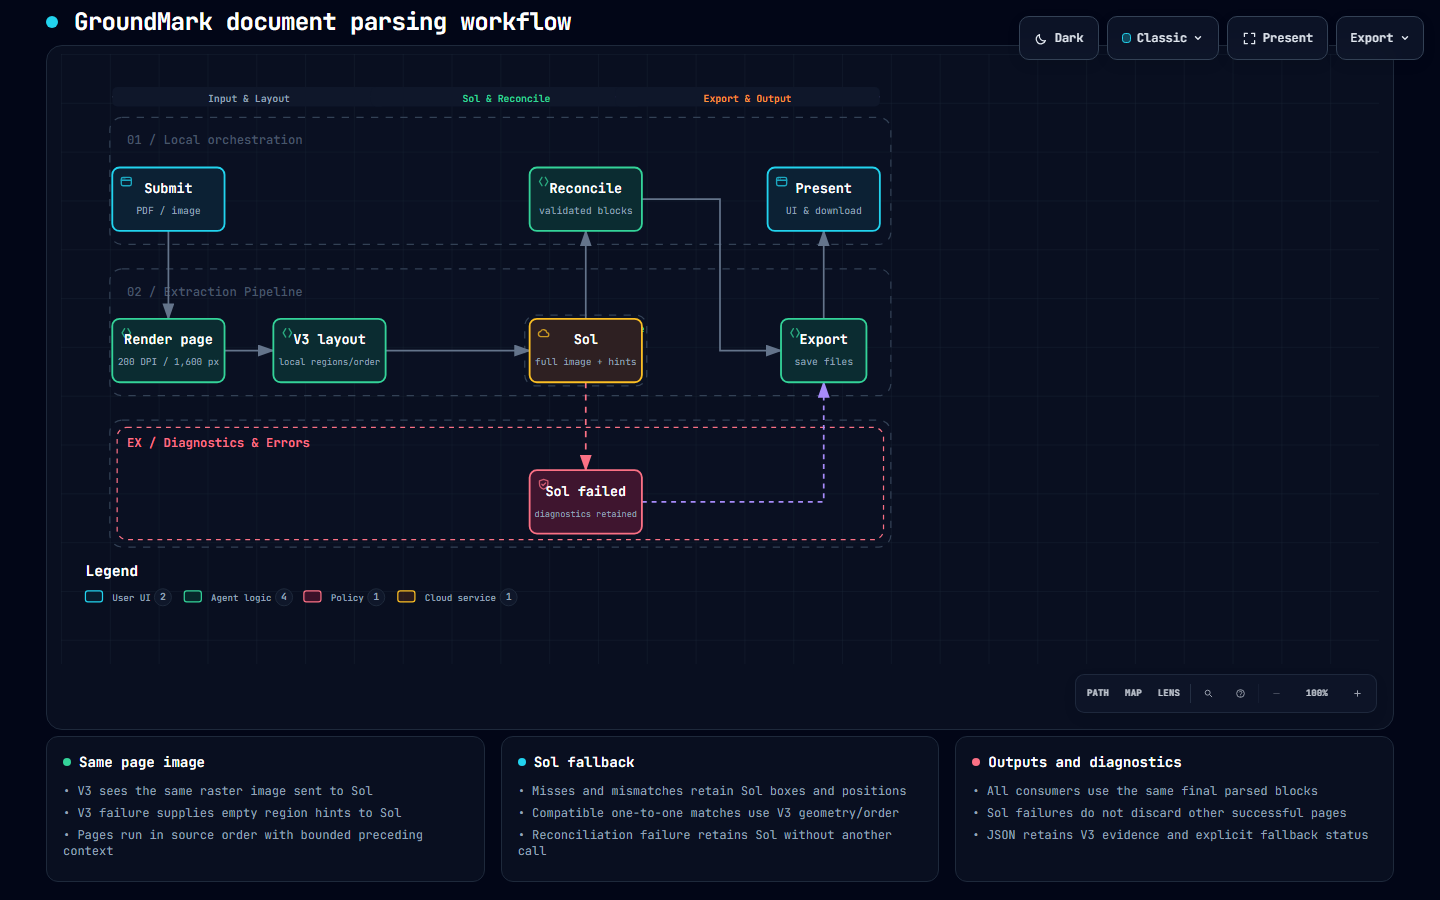
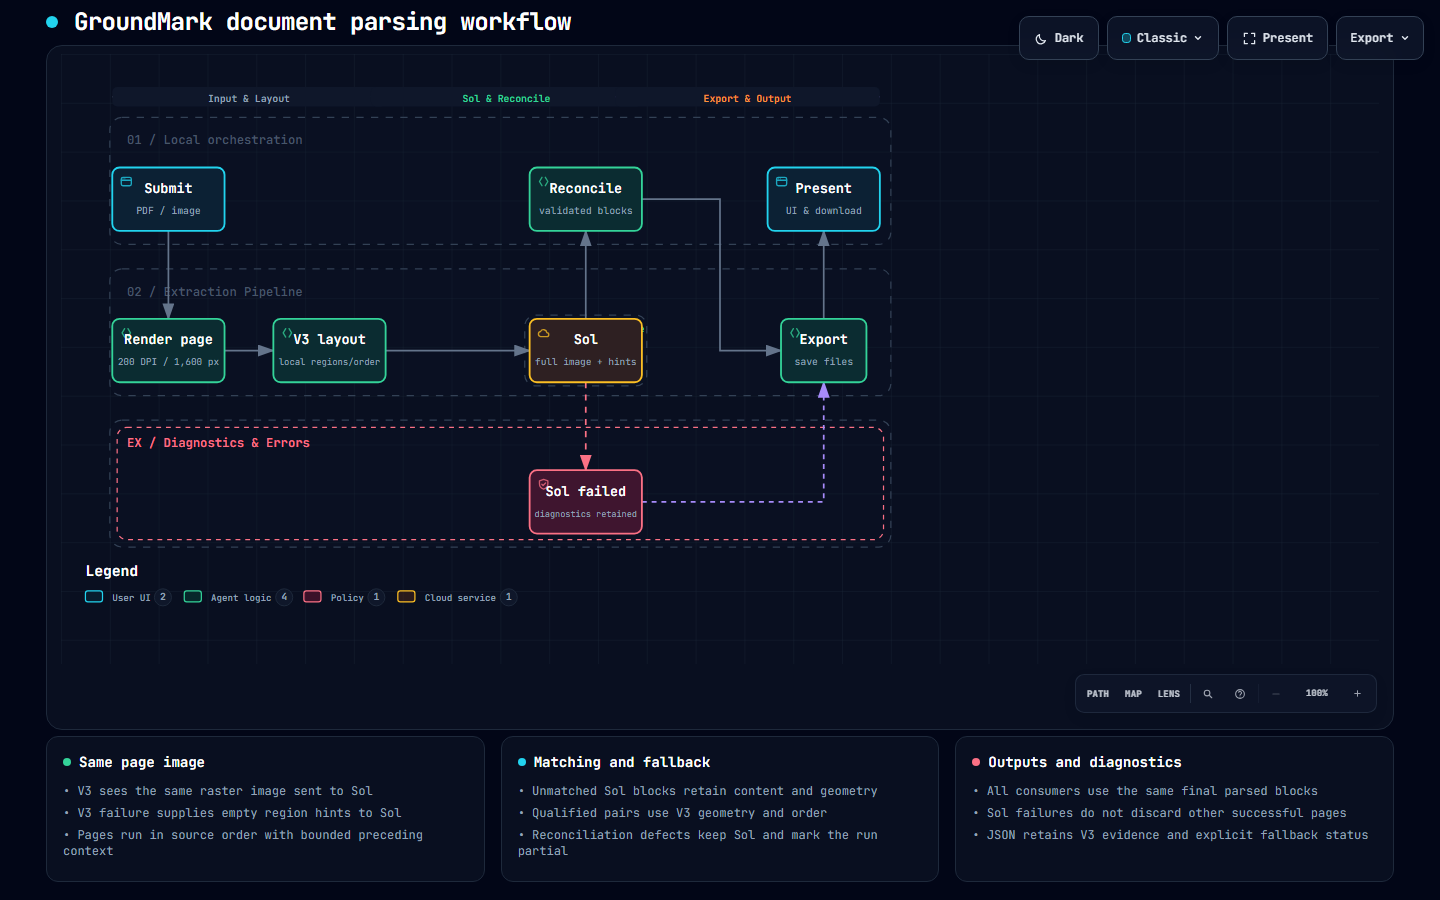
docs: refresh architecture diagrams and visual checks

Changed region(s): [[0.375, 0.84, 0.625, 0.9333]]

diff --git a/docs/diagrams/groundmark-architecture.html b/docs/diagrams/groundmark-architecture.html
@@ -5042,7 +5042,7 @@
         <path data-edge-from="parser_core" data-edge-to="sol_model" data-edge-label="image + hints" data-edge-key="4" data-composition-points="840,230;840,130" d="M 840 230 L 840 130" class="a-default" stroke-width="1.5" marker-end="url(#arrowhead)"/>
         <path data-edge-from="parser_core" data-edge-to="layout_contract" data-edge-key="5" data-composition-points="900,260;960,260" d="M 900 260 L 960 260" class="a-default" stroke-width="1.5" marker-end="url(#arrowhead)"/>
         <path data-edge-from="layout_contract" data-edge-to="renderer" data-edge-label="Structure" data-edge-key="6" data-composition-points="1020,230;1020,130" d="M 1020 230 L 1020 130" class="a-default" stroke-width="1.5" marker-end="url(#arrowhead)"/>
-        <path data-edge-from="layout_contract" data-edge-to="annotator" data-edge-label="Boxes" data-edge-key="7" data-composition-points="1020,290;1020,390" d="M 1020 290 L 1020 390" class="a-default" stroke-width="1.5" marker-end="url(#arrowhead)"/>
+        <path data-edge-from="layout_contract" data-edge-to="annotator" data-edge-label="Geometry" data-edge-key="7" data-composition-points="1020,290;1020,390" d="M 1020 290 L 1020 390" class="a-default" stroke-width="1.5" marker-end="url(#arrowhead)"/>
         <path data-edge-from="renderer" data-edge-to="run_store" data-edge-label="Markdown/HTML" data-edge-key="8" data-composition-points="1080,100;1110,100;1110,253;1140,253" d="M 1080 100 L 1102 100 Q 1110 100 1110 108 L 1110 245 Q 1110 253 1118 253 L 1140 253" class="a-default" stroke-width="1.5" marker-end="url(#arrowhead)"/>
         <path data-edge-from="annotator" data-edge-to="run_store" data-edge-label="PDF Overlays" data-edge-key="9" data-composition-points="1080,420;1110,420;1110,267;1140,267" d="M 1080 420 L 1102 420 Q 1110 420 1110 412 L 1110 275 Q 1110 267 1118 267 L 1140 267" class="a-default" stroke-width="1.5" marker-end="url(#arrowhead)"/>
         <path data-edge-from="ui_app" data-edge-to="chat_engine" data-edge-key="10" data-composition-points="100,290;100,390" d="M 100 290 L 100 390" class="a-default" stroke-width="1.5" marker-end="url(#arrowhead)"/>
@@ -5152,26 +5152,26 @@
         <text data-detail="context" x="1020" y="114" class="t-muted" font-size="9" text-anchor="middle">Markdown &amp; HTML</text>
         </g>
 
-        <g id="node-layout_contract" data-node-id="layout_contract" data-node-label="Grounding Model" tabindex="0" role="button" aria-label="Focus Grounding Model, Blocks, Boxes &amp; Order, GroundMark Core Pipeline" aria-pressed="false" data-node-kind="backend" data-node-sublabel="Blocks, Boxes &amp; Order" data-node-context="GroundMark Core Pipeline">
-          <title>Grounding Model · Blocks, Boxes &amp; Order · GroundMark Core Pipeline</title>
+        <g id="node-layout_contract" data-node-id="layout_contract" data-node-label="Grounding Model" tabindex="0" role="button" aria-label="Focus Grounding Model, Blocks + contours, GroundMark Core Pipeline" aria-pressed="false" data-node-kind="backend" data-node-sublabel="Blocks + contours" data-node-context="GroundMark Core Pipeline">
+          <title>Grounding Model · Blocks + contours · GroundMark Core Pipeline</title>
           <rect x="960" y="230" width="120" height="60" rx="6" class="c-mask"/>
           <rect x="960" y="230" width="120" height="60" rx="6" class="c-backend" stroke-width="1.5"/>
           <g aria-hidden="true" data-semantic-sigil="backend" class="semantic-sigil s-backend" transform="translate(966 236) scale(0.6875)">
             <path d="M6 3 3 8l3 5M10 3l3 5-3 5"/>
           </g>
           <text data-node-label="" data-detail-anchor="" x="1020" y="258" class="t-primary" font-size="11" font-weight="600" text-anchor="middle">Grounding Model</text>
-        <text data-detail="context" x="1020" y="274" class="t-muted" font-size="8.8" text-anchor="middle">Blocks, Boxes &amp; Order</text>
+        <text data-detail="context" x="1020" y="274" class="t-muted" font-size="9" text-anchor="middle">Blocks + contours</text>
         </g>
 
-        <g id="node-annotator" data-node-id="annotator" data-node-label="Annotator" tabindex="0" role="button" aria-label="Focus Annotator, Box Overlay on Pages, GroundMark Core Pipeline" aria-pressed="false" data-node-kind="backend" data-node-sublabel="Box Overlay on Pages" data-node-context="GroundMark Core Pipeline">
-          <title>Annotator · Box Overlay on Pages · GroundMark Core Pipeline</title>
+        <g id="node-annotator" data-node-id="annotator" data-node-label="Annotator" tabindex="0" role="button" aria-label="Focus Annotator, Contours and boxes, GroundMark Core Pipeline" aria-pressed="false" data-node-kind="backend" data-node-sublabel="Contours and boxes" data-node-context="GroundMark Core Pipeline">
+          <title>Annotator · Contours and boxes · GroundMark Core Pipeline</title>
           <rect x="960" y="390" width="120" height="60" rx="6" class="c-mask"/>
           <rect x="960" y="390" width="120" height="60" rx="6" class="c-backend" stroke-width="1.5"/>
           <g aria-hidden="true" data-semantic-sigil="backend" class="semantic-sigil s-backend" transform="translate(966 396) scale(0.6875)">
             <path d="M6 3 3 8l3 5M10 3l3 5-3 5"/>
           </g>
           <text data-node-label="" data-detail-anchor="" x="1020" y="418" class="t-primary" font-size="11" font-weight="600" text-anchor="middle">Annotator</text>
-        <text data-detail="context" x="1020" y="434" class="t-muted" font-size="9" text-anchor="middle">Box Overlay on Pages</text>
+        <text data-detail="context" x="1020" y="434" class="t-muted" font-size="9" text-anchor="middle">Contours and boxes</text>
         </g>
 
         <g id="node-run_store" data-node-id="run_store" data-node-label="Selected outputs" tabindex="0" role="button" aria-label="Focus Selected outputs, Session / CLI files, GroundMark Core Pipeline" aria-pressed="false" data-node-kind="backend" data-node-sublabel="Session / CLI files" data-node-context="GroundMark Core Pipeline">
@@ -5202,9 +5202,9 @@
           <rect x="993.4" y="210" width="53.199999999999996" height="14" rx="3" class="c-mask"/>
           <text x="1020" y="220" class="t-muted" font-size="8" text-anchor="middle">Structure</text>
         </g>
-        <g data-detail="context" data-edge-from="layout_contract" data-edge-to="annotator" data-edge-label="Boxes" data-edge-key="7">
-          <rect x="1003" y="294" width="34" height="14" rx="3" class="c-mask"/>
-          <text x="1020" y="304" class="t-muted" font-size="8" text-anchor="middle">Boxes</text>
+        <g data-detail="context" data-edge-from="layout_contract" data-edge-to="annotator" data-edge-label="Geometry" data-edge-key="7">
+          <rect x="995.8" y="294" width="48.4" height="14" rx="3" class="c-mask"/>
+          <text x="1020" y="304" class="t-muted" font-size="8" text-anchor="middle">Geometry</text>
         </g>
         <g data-detail="context" data-edge-from="renderer" data-edge-to="run_store" data-edge-label="Markdown/HTML" data-edge-key="8">
           <rect x="1073.8" y="156.5" width="72.4" height="14" rx="3" class="c-mask"/>
@@ -5455,9 +5455,9 @@
           <h3>Reconciliation and fallback</h3>
         </div>
         <ul>
-          <li>&bull; Compatible one-to-one matches use V3 boxes and order</li>
-          <li>&bull; Misses, mismatches and V3 failures retain Sol blocks</li>
-          <li>&bull; All artifacts use final blocks; polygons stay metadata</li>
+          <li>&bull; Qualified one-to-one matches use V3 geometry and order</li>
+          <li>&bull; Unmatched Sol blocks and V3 failures retain Sol content</li>
+          <li>&bull; Full contours guide matching and annotation overlays</li>
         </ul>
       </div>
 

diff --git a/docs/diagrams/groundmark-dataflow.html b/docs/diagrams/groundmark-dataflow.html
@@ -5052,7 +5052,7 @@
         <path data-edge-from="input_doc" data-edge-to="rasterizer" data-edge-label="source pages" data-edge-key="3" data-edge-id="f_doc_raster" data-composition-points="157.5,271;208.25,271;208.25,385;259,385" d="M 157.5 271 L 208.25 271 L 208.25 385 L 259 385" class="a-default" stroke-width="1.4" marker-end="url(#arrowhead)"/>
         <path data-edge-from="rasterizer" data-edge-to="sol_engine" data-edge-label="page images" data-edge-key="4" data-edge-id="f_raster_sol" data-composition-points="371,385;422.5,385;422.5,278;474,278" d="M 371 385 L 422.5 385 L 422.5 278 L 474 278" class="a-emphasis" stroke-width="1.8" marker-end="url(#arrowhead-emphasis)"/>
         <path data-edge-from="sol_engine" data-edge-to="pydantic_val" data-edge-label="strict response" data-edge-key="5" data-edge-id="f_sol_val" data-composition-points="586,271;637.5,271;637.5,157;689,157" d="M 586 271 L 637.5 271 L 637.5 157 L 689 157" class="a-emphasis" stroke-width="1.8" marker-end="url(#arrowhead-emphasis)"/>
-        <path data-edge-from="pydantic_val" data-edge-to="annotator" data-edge-label="valid boxes" data-edge-key="6" data-edge-id="f_val_annot" data-composition-points="745,186;745,186;745,356;745,356" d="M 745 186 L 745 186 L 745 356 L 745 356" class="a-default" stroke-width="1.4" marker-end="url(#arrowhead)"/>
+        <path data-edge-from="pydantic_val" data-edge-to="annotator" data-edge-label="geometry" data-edge-key="6" data-edge-id="f_val_annot" data-composition-points="745,186;745,186;745,356;745,356" d="M 745 186 L 745 186 L 745 356 L 745 356" class="a-default" stroke-width="1.4" marker-end="url(#arrowhead)"/>
         <path data-edge-from="pydantic_val" data-edge-to="doc_renders" data-edge-label="rendered text" data-edge-key="7" data-edge-id="f_val_renders" data-composition-points="801,157;904,157" d="M 801 157 L 904 157" class="a-emphasis" stroke-width="1.8" marker-end="url(#arrowhead-emphasis)"/>
         <path data-edge-from="pydantic_val" data-edge-to="json_store" data-edge-label="grounded JSON" data-edge-key="8" data-edge-id="f_val_json" data-composition-points="801,157;852.5,157;852.5,271;904,271" d="M 801 157 L 852.5 157 L 852.5 271 L 904 271" class="a-default" stroke-width="1.4" marker-end="url(#arrowhead)"/>
         <path data-edge-from="annotator" data-edge-to="annotated_pdf" data-edge-label="page overlays" data-edge-key="9" data-edge-id="f_annot_overlay" data-composition-points="801,385;904,385" d="M 801 385 L 904 385" class="a-default" stroke-width="1.4" marker-end="url(#arrowhead)"/>
@@ -5188,9 +5188,9 @@
           <rect x="594.75" y="193" width="85.5" height="16" rx="4" class="c-mask"/>
           <text x="637.5" y="204" class="t-backend" font-size="8" text-anchor="middle">strict response</text>
         </g>
-        <g data-detail="context" data-edge-from="pydantic_val" data-edge-to="annotator" data-edge-label="valid boxes" data-edge-key="6" data-edge-id="f_val_annot">
-          <rect x="712.05" y="250" width="65.9" height="16" rx="4" class="c-mask"/>
-          <text x="745" y="261" class="t-muted" font-size="8" text-anchor="middle">valid boxes</text>
+        <g data-detail="context" data-edge-from="pydantic_val" data-edge-to="annotator" data-edge-label="geometry" data-edge-key="6" data-edge-id="f_val_annot">
+          <rect x="719.4" y="250" width="51.2" height="16" rx="4" class="c-mask"/>
+          <text x="745" y="261" class="t-muted" font-size="8" text-anchor="middle">geometry</text>
         </g>
         <g data-detail="context" data-edge-from="pydantic_val" data-edge-to="doc_renders" data-edge-label="rendered text" data-edge-key="7" data-edge-id="f_val_renders">
           <rect x="814.65" y="136" width="75.7" height="16" rx="4" class="c-mask"/>
@@ -5430,7 +5430,7 @@
         </div>
         <ul>
           <li>&bull; Sol reads the complete image, including content V3 misses</li>
-          <li>&bull; Only compatible one-to-one matches replace Sol geometry</li>
+          <li>&bull; Qualified one-to-one matches take V3 geometry and order</li>
           <li>&bull; V3 analysis failure supplies empty hints; Sol blocks remain usable</li>
         </ul>
       </div>

diff --git a/docs/diagrams/groundmark-lifecycle.html b/docs/diagrams/groundmark-lifecycle.html
@@ -5394,22 +5394,22 @@
       <div class="card">
         <div class="card-header">
           <div class="card-dot cyan"></div>
-          <h3>V3 failures</h3>
+          <h3>Failure handling</h3>
         </div>
         <ul>
           <li>&bull; Unavailable V3 sends empty hints with the image</li>
-          <li>&bull; Reconciliation failure retains validated Sol blocks</li>
+          <li>&bull; Reconciliation defects keep Sol and mark the run partial</li>
         </ul>
       </div>
 
       <div class="card">
         <div class="card-header">
           <div class="card-dot emerald"></div>
-          <h3>Conservative matching</h3>
+          <h3>Qualified matching</h3>
         </div>
         <ul>
-          <li>&bull; Compatible one-to-one matches change boxes/order</li>
-          <li>&bull; Misses and disagreements keep Sol blocks in place</li>
+          <li>&bull; One-to-one pairs take V3 geometry and order</li>
+          <li>&bull; Unmatched Sol blocks keep their original geometry</li>
         </ul>
       </div>
 

diff --git a/docs/diagrams/groundmark-workflow.html b/docs/diagrams/groundmark-workflow.html
@@ -5392,12 +5392,12 @@
       <div class="card">
         <div class="card-header">
           <div class="card-dot cyan"></div>
-          <h3>Sol fallback</h3>
+          <h3>Matching and fallback</h3>
         </div>
         <ul>
-          <li>&bull; Misses and mismatches retain Sol boxes and positions</li>
-          <li>&bull; Compatible one-to-one matches use V3 geometry/order</li>
-          <li>&bull; Reconciliation failure retains Sol without another call</li>
+          <li>&bull; Unmatched Sol blocks retain content and geometry</li>
+          <li>&bull; Qualified pairs use V3 geometry and order</li>
+          <li>&bull; Reconciliation defects keep Sol and mark the run partial</li>
         </ul>
       </div>
 

diff --git a/docs/diagrams/groundmark-sequence.html b/docs/diagrams/groundmark-sequence.html
@@ -5466,7 +5466,7 @@
         <ul>
           <li>&bull; Initialization failure skips V3 prediction for that run</li>
           <li>&bull; Analysis failure still sends the complete image to Sol</li>
-          <li>&bull; Reconciliation failure preserves Sol without another call</li>
+          <li>&bull; Reconciliation defects keep Sol and mark the run partial</li>
         </ul>
       </div>
 
